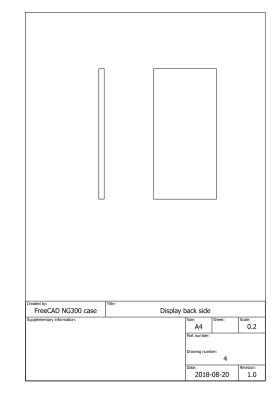
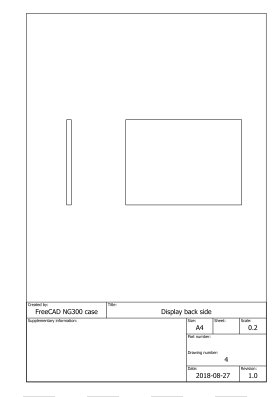
append

diff --git a/ng300-10batteries-case.py b/ng300-10batteries-case.py
@@ -41,7 +41,8 @@ class TenBatteriesCase:
         wallLeftDepth = float((5*(batteryDepth)+
                         row_betweenBattery*6)
                         )                                       # Depth (glubina) (y)
-        wallLeftHeight = float(batteryHeight+additionalHeight)  # Height (Vysota) (z)
+        wallLeftHeight = float(batteryHeight+additionalHeight
+                         -150)                                  # Height (Vysota) (z)
 
         # Coordinates of the left wall of a box (Koordinaty levoy stenki yashchika)(x, y, z)
         LeftWall_X = float((-batteryWidth - 
@@ -77,7 +78,7 @@ class TenBatteriesCase:
                          row_betweenBattery*6)
                          )                                      # Depth (glubina) (y)
         wallRightHeight = float((batteryHeight+
-                          additionalHeight)
+                          additionalHeight-150)
                           )                                     # Height (Vysota) (z)
 
         # Coordinates of the right wall of a box (Koordinaty pravoy stenki yashchika) (x, y, z)
@@ -113,7 +114,7 @@ class TenBatteriesCase:
                             )                                   # Width (Shirina) (x)
         wallAnteriortDepth = float(boxThickness)                # Depth (glubina) (y)
         wallAnteriortHeight = float((batteryHeight+
-                              additionalHeight)
+                              additionalHeight-150)
                               )                                 # Height (Vysota) (z)
 
         # Coordinates of a front wall of a box (Koordinaty peredney stenki korobki) (x, y, z)
@@ -155,7 +156,7 @@ class TenBatteriesCase:
                              )                                   # Width (Shirina) (x)
         wallPosteriorDepth = float(boxThickness)                 # Depth (glubina) (y)
         wallPosteriorHeight = float((batteryHeight+
-                              additionalHeight)
+                              additionalHeight-150)
                               )                                  # Height (Vysota) (z)
 
         # Coordinates of a back wall of a box (Koordinaty zadney stenki yashchika) (x, y, z)
@@ -635,8 +636,8 @@ class TenBatteriesCase:
         box5CloneTexts[10] = str(box5CloneView.Scale); # str(drawingScale);
         box6CloneTexts[10] = str(box6CloneView.Scale); # str(drawingScale);
         # Drawing (Risovaniye)
-        box5CloneTexts[12] = "4";
-        box6CloneTexts[12] = "4";
+        box5CloneTexts[12] = "2";
+        box6CloneTexts[12] = "2";
         # Date (Data)
         box5CloneTexts[13] = datetime.datetime.now().\
         strftime("%Y-%m-%d");
@@ -690,8 +691,8 @@ class TenBatteriesCase:
         box1CloneTexts[10] = str(box1CloneView.Scale); # str(drawingScale);
         box2CloneTexts[10] = str(box2CloneView.Scale); # str(drawingScale);
         # Drawing (Risovaniye)
-        box1CloneTexts[12] = "2";
-        box2CloneTexts[12] = "2";
+        box1CloneTexts[12] = "3";
+        box2CloneTexts[12] = "3";
         # Date (Data)
         box1CloneTexts[13] = datetime.datetime.now().\
         strftime("%Y-%m-%d");
@@ -721,8 +722,8 @@ class TenBatteriesCase:
         box4CloneView.Source = self.box4Clone;
         ###
         box3CloneView.Direction = (1, 0, 0);
-        box3CloneView.X = 75.0;
-        box3CloneView.Y = 52.75;
+        box3CloneView.X = 50;
+        box3CloneView.Y = 94;
         box4CloneView.Direction = (0, 0, 1);
         box4CloneView.X = 140.0;
         box4CloneView.Y = 150.0;
@@ -744,8 +745,8 @@ class TenBatteriesCase:
         box3CloneTexts[10] = str(box3CloneView.Scale); # str(drawingScale);
         box4CloneTexts[10] = str(box4CloneView.Scale); # str(drawingScale);
         # Drawing (Risovaniye)
-        box3CloneTexts[12] = "2";
-        box4CloneTexts[12] = "2";
+        box3CloneTexts[12] = "4";
+        box4CloneTexts[12] = "4";
         # Date (Data)
         box3CloneTexts[13] = datetime.datetime.now().\
         strftime("%Y-%m-%d");
@@ -765,11 +766,11 @@ class NG300BatteryCase(TenBatteriesCase):
     def __init__(self, row_betweenBattery, boxThickness, 
                  additionalHeight, rotation, x, y, z,
                  scale_by_x, scale_by_y, scale_by_z):
-        TenBatteriesCase.__init__(self, 95, 167, 490, row_betweenBattery, 
+        TenBatteriesCase.__init__(self, 170, 155, 470, row_betweenBattery, 
                                  boxThickness, additionalHeight, rotation, 
                                  x, y, z, scale_by_x, scale_by_y, scale_by_z)
 
-battery = NG300BatteryCase(2, 20, 0, 0, 0, 0, 1, 1, 1, 1)
+battery = NG300BatteryCase(20, 18, 0, 0, 0, 0, 1, 1, 1, 1)
 battery.display3D()
 battery.displayBottomSide()
 battery.displayBackSide()
